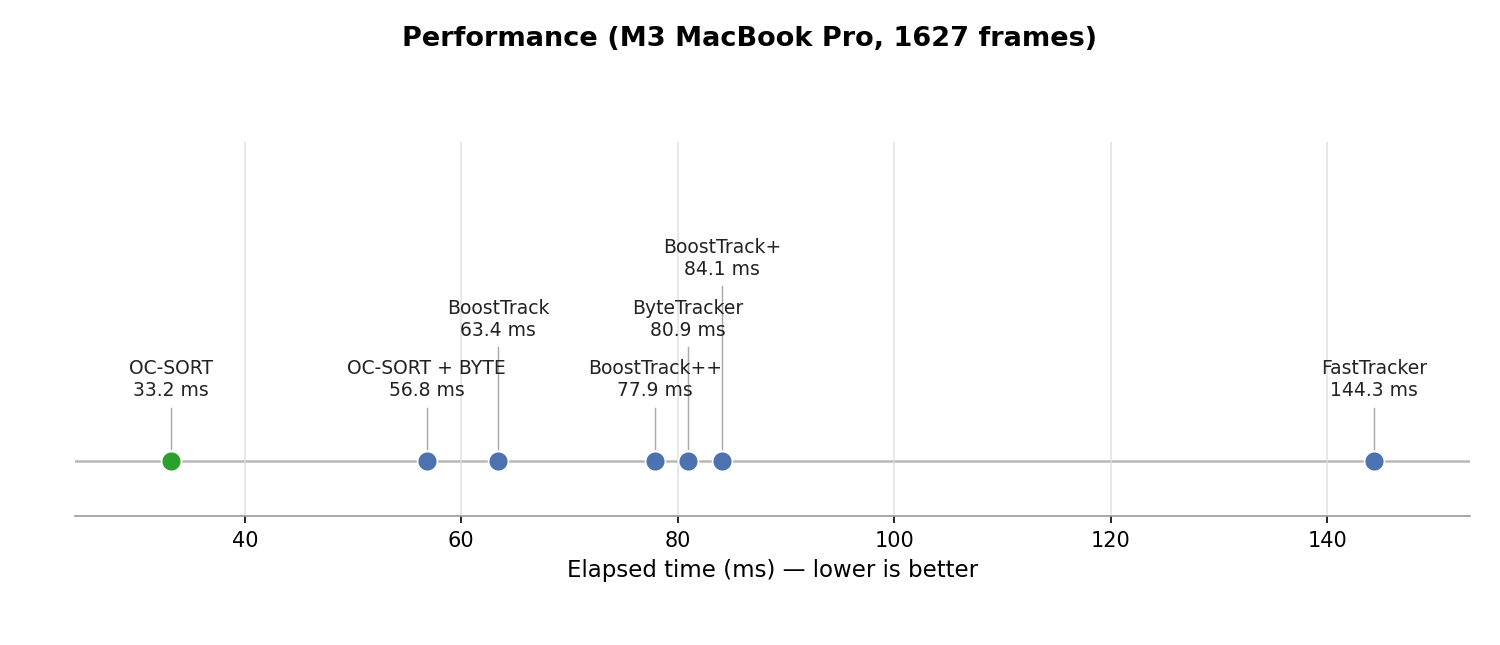
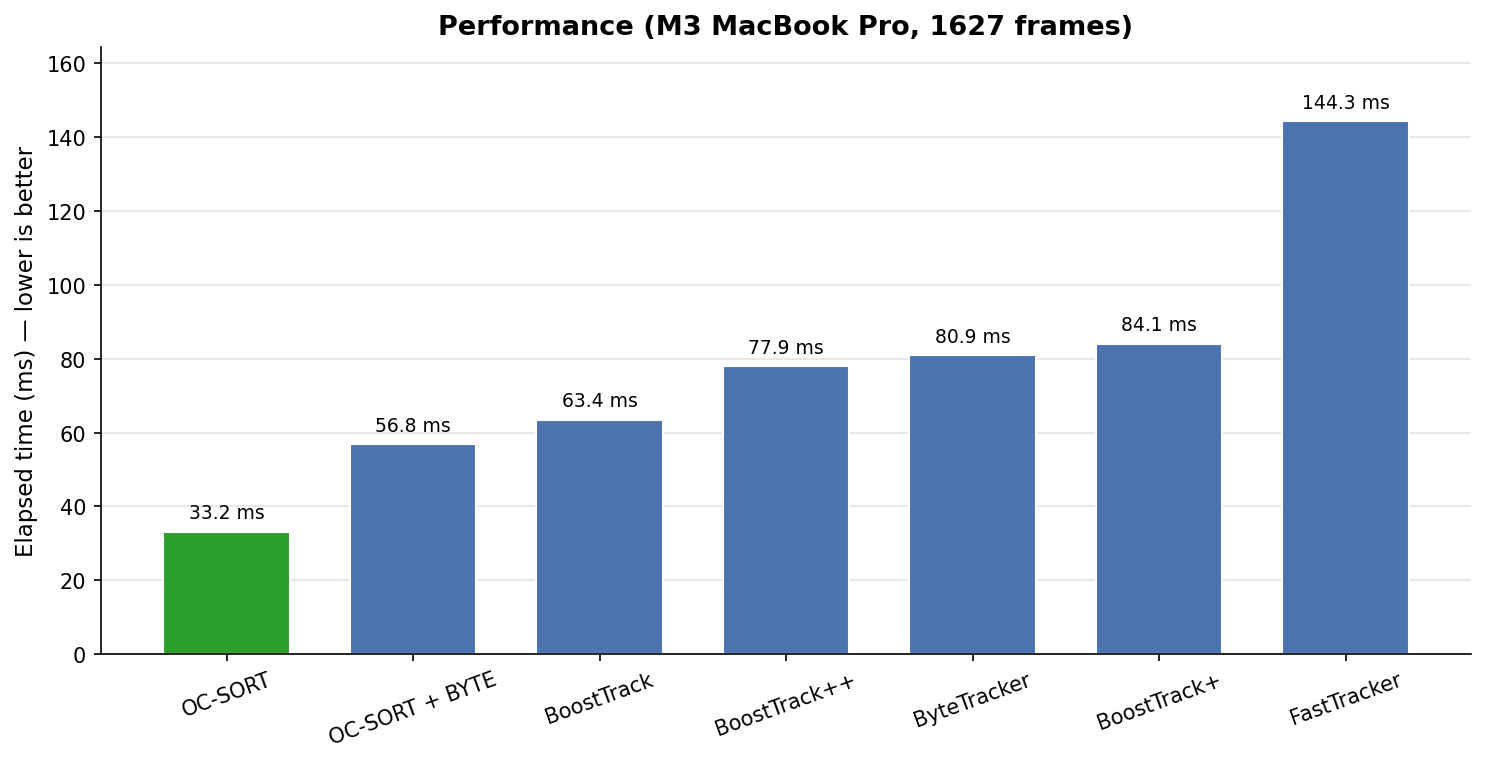
docs: use vertical performance bars

diff --git a/scripts/gen_charts.py b/scripts/gen_charts.py
@@ -177,89 +177,42 @@ def selected_mot_labels(results):
     }
 
 
-def performance_label_levels(times, level_count=4):
-    if not times:
-        return []
-    value_range = max(times) - min(times)
-    minimum_spacing = max(value_range * 0.08, 7.0)
-    levels = [0.2 + index * 0.2 for index in range(level_count)]
-    last_value_at_level = [float("-inf")] * level_count
-    assigned_levels = []
-    for value in times:
-        available_level = next(
-            (
-                index
-                for index, previous in enumerate(last_value_at_level)
-                if value - previous >= minimum_spacing
-            ),
-            None,
-        )
-        if available_level is None:
-            available_level = min(
-                range(level_count), key=lambda index: last_value_at_level[index]
-            )
-        last_value_at_level[available_level] = value
-        assigned_levels.append(levels[available_level])
-    return assigned_levels
-
-
 def make_performance_chart(results, context):
     device, frames, unit, _ = context
     results = sorted(results, key=lambda result: result["elapsed_ms"])
+    labels = [result["label"] for result in results]
     times = [result["elapsed_ms"] for result in results]
-    minimum = min(times)
-    value_range = max(times) - minimum
-    padding = max(value_range * 0.08, 5.0)
-    label_levels = performance_label_levels(times)
+    colors = [
+        COLOR_HIGHLIGHT if result.get("highlight") else COLOR_PERFORMANCE
+        for result in results
+    ]
 
-    fig, ax = plt.subplots(figsize=(10, 4.3))
-    ax.axhline(0, color="#B8B8B8", linewidth=1.2, zorder=1)
-    for result, label_level in zip(results, label_levels):
-        elapsed_ms = result["elapsed_ms"]
-        highlighted = result.get("highlight", False)
-        color = COLOR_HIGHLIGHT if highlighted else COLOR_PERFORMANCE
-        ax.scatter(
-            elapsed_ms,
-            0,
-            color=color,
-            edgecolor="white",
-            linewidth=0.8,
-            s=90,
-            zorder=3,
-        )
-        ax.plot(
-            [elapsed_ms, elapsed_ms],
-            [0.04, label_level - 0.025],
-            color="#AAAAAA",
-            linewidth=0.7,
-            zorder=2,
-        )
+    fig, ax = plt.subplots(figsize=(10, 5.2))
+    bars = ax.bar(labels, times, color=colors, edgecolor="white", width=0.68)
+    for bar, elapsed_ms in zip(bars, times):
         ax.text(
-            elapsed_ms,
-            label_level,
-            f"{result['label']}\n{elapsed_ms:g} {unit}",
+            bar.get_x() + bar.get_width() / 2,
+            bar.get_height() + max(times) * 0.018,
+            f"{elapsed_ms:g} {unit}",
             ha="center",
             va="bottom",
             fontsize=9,
-            color="#222222",
         )
 
-    ax.set_xlim(minimum - padding, max(times) + padding)
-    ax.set_ylim(-0.18, 1.05)
-    ax.set_yticks([])
-    ax.set_xlabel(f"Elapsed time ({unit}) — lower is better", fontsize=11)
-    fig.suptitle(
+    ax.set_ylim(0, max(times) * 1.14)
+    ax.set_ylabel(f"Elapsed time ({unit}) — lower is better", fontsize=11)
+    ax.set_title(
         f"Performance ({device}, {frames} frames)",
         fontsize=13,
         fontweight="bold",
-        y=0.96,
     )
-    ax.grid(axis="x", color="#DDDDDD", linewidth=0.8, alpha=0.8)
-    for side in ("left", "right", "top"):
-        ax.spines[side].set_visible(False)
-    ax.spines["bottom"].set_color("#999999")
-    fig.subplots_adjust(top=0.78, bottom=0.2, left=0.05, right=0.98)
-    fig.savefig(OUTPUT_DIR / "performance.png", dpi=150)
+    ax.grid(axis="y", color="#DDDDDD", linewidth=0.8, alpha=0.8)
+    ax.set_axisbelow(True)
+    ax.tick_params(axis="x", labelrotation=20)
+    ax.spines["top"].set_visible(False)
+    ax.spines["right"].set_visible(False)
+    fig.tight_layout()
+    fig.savefig(OUTPUT_DIR / "performance.png", dpi=150, bbox_inches="tight")
     plt.close(fig)
 
 

diff --git a/python/tests/test_gen_charts.py b/python/tests/test_gen_charts.py
@@ -5,7 +5,6 @@ from scripts.gen_charts import (
     collect_performance_results,
     load_tracker_files,
     pareto_frontier,
-    performance_label_levels,
     selected_mot_labels,
     variant_group,
 )
@@ -67,11 +66,6 @@ class ParetoFrontierTests(unittest.TestCase):
 
 
 class ChartDataTests(unittest.TestCase):
-    def test_performance_labels_use_separate_levels_for_nearby_values(self):
-        levels = performance_label_levels([77.9, 80.9, 84.1])
-
-        self.assertEqual(len(set(levels)), 3)
-
     def test_variant_groups(self):
         self.assertEqual(variant_group("default"), "Default")
         self.assertEqual(variant_group("tuned"), "Tuned")

diff --git a/README.md b/README.md
@@ -277,7 +277,7 @@ Tested on M3 MacBook Pro with 1627 frames from detection_results.json.
 
 ### Performance
 
-Lower is better. Each dot is the time required to process all 1627 frames.
+Lower is better. Each bar is the time required to process all 1627 frames.
 
 <div align="center">
     <img src="./data/charts/performance.png" width="800">
